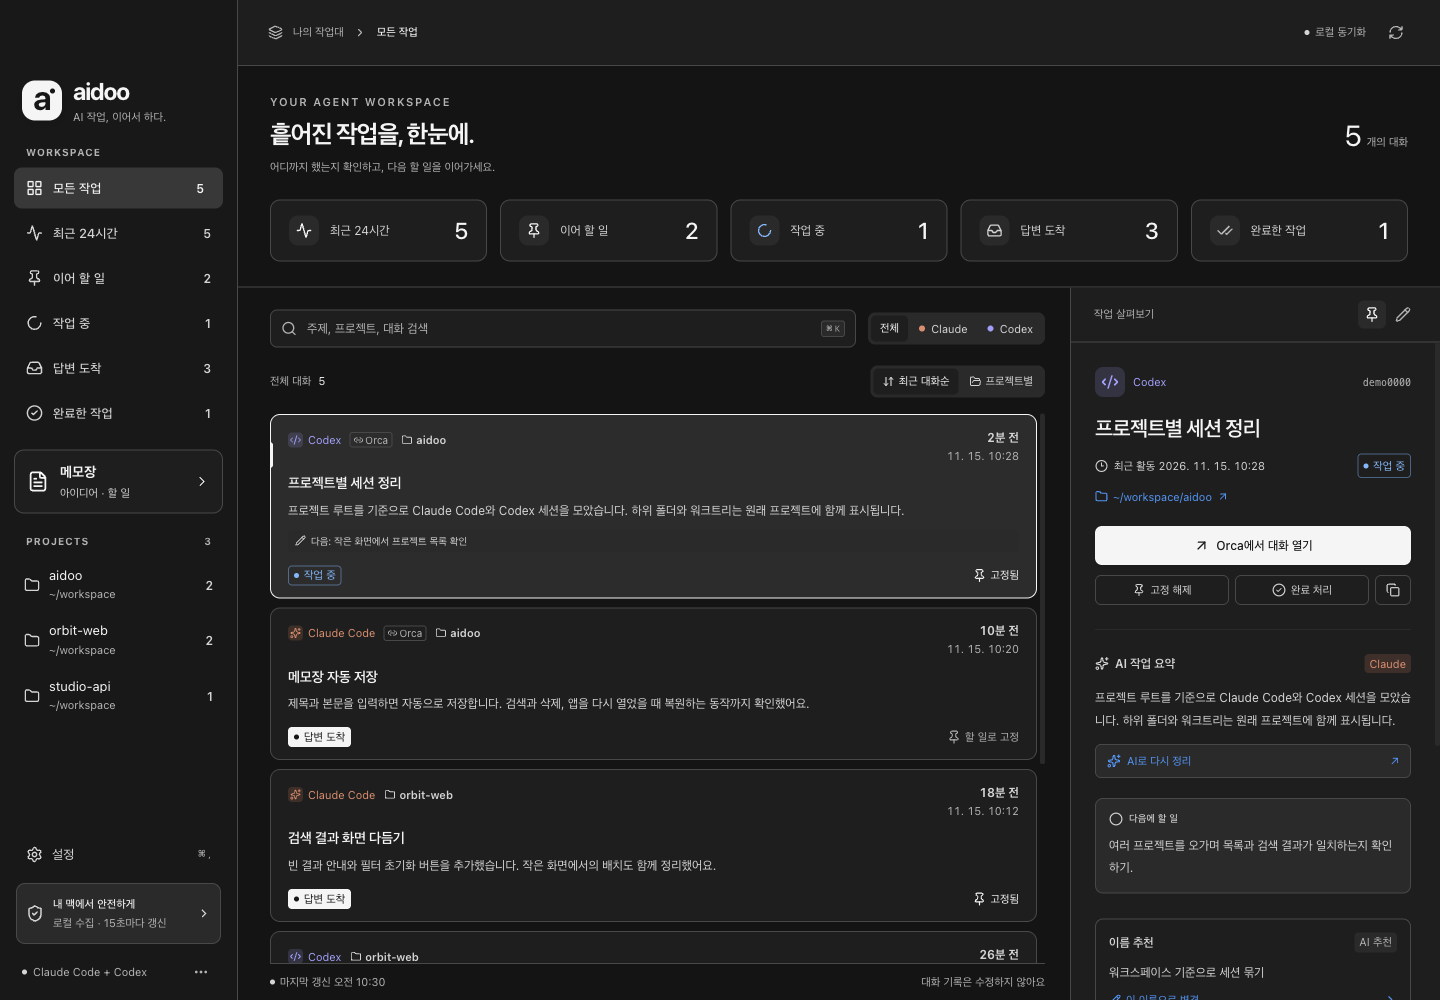
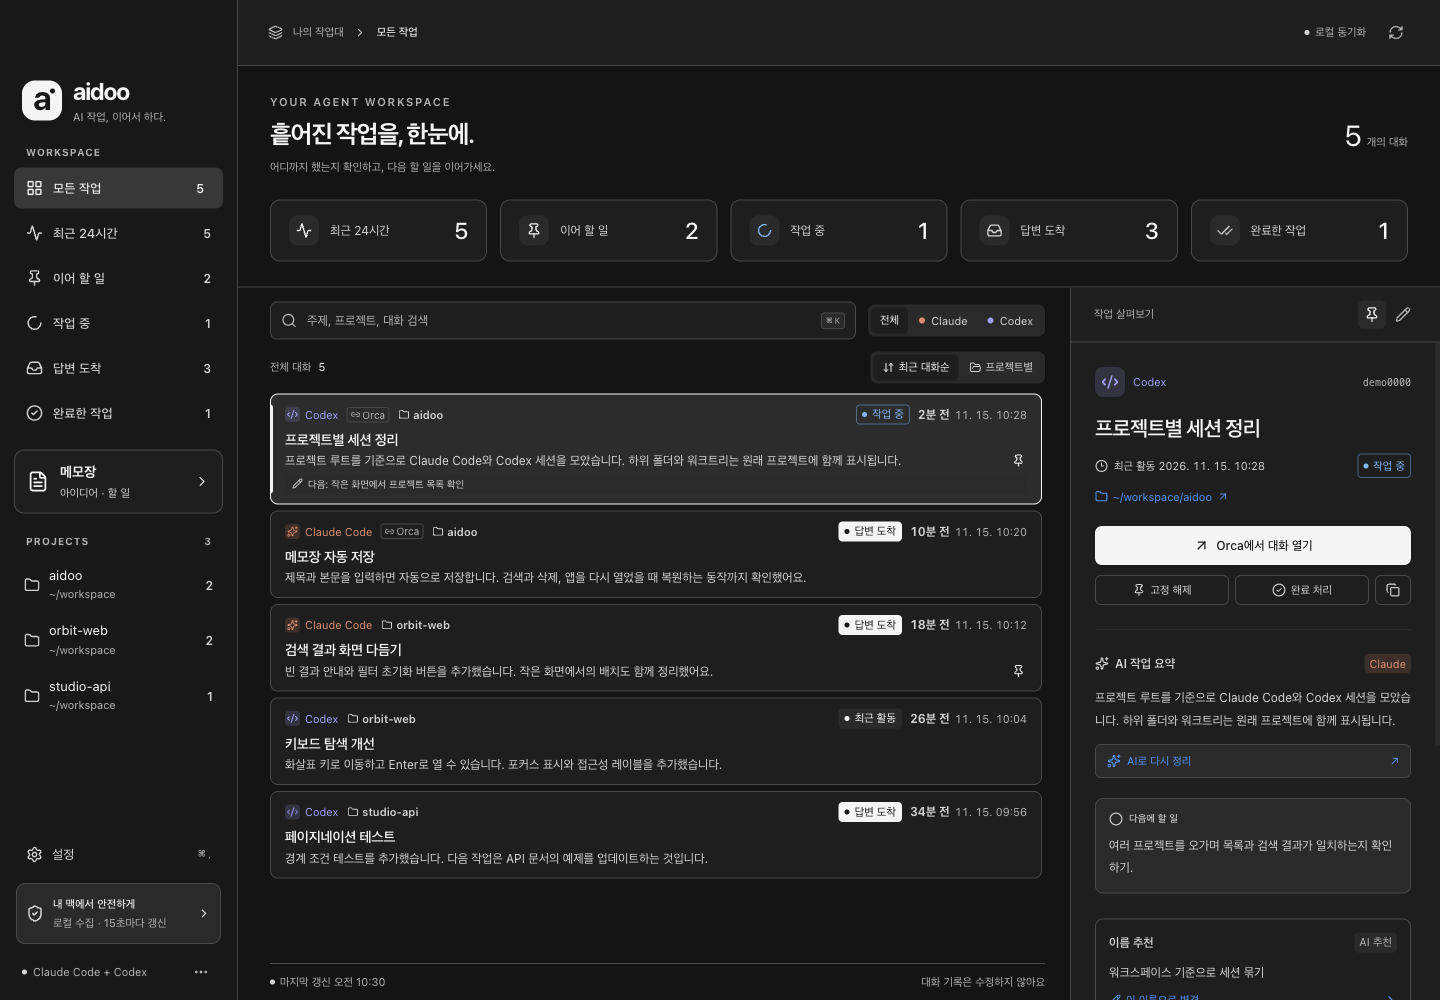
Fit more sessions on screen with compact cards
The detail pane already shows the full summary, so each card keeps one line of it. The status chip moves next to the time, the pin becomes an icon beside the summary, and card spacing shrinks, taking a card from about 155px to 87px.

Claude-Session: https://claude.ai/code/session_01UC48AHiTr7uA9vwWLQU8uy

diff --git a/src/renderer/src/main.tsx b/src/renderer/src/main.tsx
@@ -238,12 +238,11 @@ function App() {
           {(grouped ? [...groups] : [['', visible] as const]).map(([dir, items]) => <div className="session-group" key={dir || 'recent'}>
             {grouped && <div className="group-heading" title={dir}><FolderOpen size={15}/><strong>{folderName(dir)}</strong><span>{shortPath(dir)}</span><b>{items.length}</b></div>}
             {items.map(s => { const st = state[s.id] || {}; return <article key={s.id} className={`session-card ${active?.id === s.id ? 'selected' : ''} ${st.done ? 'done' : ''}`} onClick={() => setSelected(s.id)} tabIndex={0} onKeyDown={e => { if (e.key === 'Enter') setSelected(s.id) }}>
-              <div className="card-top"><span className="agent-name" data-agent={s.agent}><AgentMark agent={s.agent} small/>{s.agent === 'claude' ? 'Claude Code' : 'Codex'}{s.inOrca && <span className="orca-label"><Link2 size={10}/> Orca</span>}{!directory && !grouped && <span className="card-project" title={shortPath(s.projectPath)}><Folder size={11}/>{folderName(s.projectPath)}</span>}</span><time className="card-time" dateTime={new Date(s.updatedAt * 1000).toISOString()} title={exactTime(s.updatedAt)}><strong>{relativeTime(s.updatedAt)}</strong><span>{shortTime(s.updatedAt)}</span></time></div>
+              <div className="card-top"><span className="agent-name" data-agent={s.agent}><AgentMark agent={s.agent} small/>{s.agent === 'claude' ? 'Claude Code' : 'Codex'}{s.inOrca && <span className="orca-label"><Link2 size={10}/> Orca</span>}{!directory && !grouped && <span className="card-project" title={shortPath(s.projectPath)}><Folder size={11}/>{folderName(s.projectPath)}</span>}</span><span className="card-meta"><StatusChip status={s.status} done={st.done}/><time className="card-time" dateTime={new Date(s.updatedAt * 1000).toISOString()} title={exactTime(s.updatedAt)}><strong>{relativeTime(s.updatedAt)}</strong><span>{shortTime(s.updatedAt)}</span></time></span></div>
               <h3>{st.done && <CircleCheck size={15}/>} {titleOf(s)}</h3>
-              <p className="card-summary">{st.ai?.summary || s.latestReply || s.latestRequest}</p>
+              <div className="card-bottom"><p className="card-summary">{st.ai?.summary || s.latestReply || s.latestRequest}</p>
+                <button className={`pin-button ${st.pinned ? 'pinned' : ''}`} title={st.pinned ? '이어 할 일에서 해제' : '이어 할 일로 고정'} aria-label={st.pinned ? '이어 할 일에서 해제' : '이어 할 일로 고정'} aria-pressed={!!st.pinned} onClick={e => { e.stopPropagation(); update(s.id, { pinned: !st.pinned }) }}><Pin size={13}/></button></div>
               {st.note && <p className="card-note"><Pencil size={11}/>{st.note}</p>}
-              <div className="card-bottom"><StatusChip status={s.status} done={st.done}/>
-                <button className={`pin-button ${st.pinned ? 'pinned' : ''}`} title={st.pinned ? '이어 할 일에서 해제' : '이어 할 일로 고정'} onClick={e => { e.stopPropagation(); update(s.id, { pinned: !st.pinned }) }}><Pin size={14}/>{st.pinned ? '고정됨' : '할 일로 고정'}</button></div>
             </article> })}
           </div>)}
         </div>

diff --git a/src/renderer/src/theme.css b/src/renderer/src/theme.css
@@ -221,3 +221,19 @@
 .stats-strip>button {min-width: 0}
 .stats-strip>button>span:not(.stat-icon) {min-width: 0;white-space: nowrap;overflow: hidden;text-overflow: ellipsis}
 @media (max-width: 1150px) {.stats-strip .stat-icon {display: none}}
+.list-toolbar {padding: 14px 0 12px}
+.list-caption {margin-bottom: 10px}
+.session-group+.session-group {margin-top: 16px}
+.group-heading {margin-bottom: 8px}
+.session-card {padding: 10px 14px;margin-bottom: 6px;border-radius: 8px}
+.session-card.selected:before {top: 10px;bottom: 10px;height: auto}
+.card-top {align-items: center;gap: 8px}
+.agent-name {padding-top: 0;min-width: 0}
+.card-meta {display: flex;align-items: center;gap: 8px;flex-shrink: 0}
+.card-time {flex-direction: row;align-items: baseline;gap: 5px}
+.session-card h3 {margin: 5px 0 1px;line-height: 1.45}
+.card-bottom {margin-top: 0;gap: 8px}
+.card-summary {flex: 1;min-width: 0;display: block;white-space: nowrap;overflow: hidden;text-overflow: ellipsis;line-height: 1.6}
+.pin-button {padding: 2px;border-radius: 4px;flex-shrink: 0;opacity: 0;transition: opacity .15s}
+.session-card:hover .pin-button,.session-card.selected .pin-button,.pin-button:focus-visible,.pin-button.pinned {opacity: 1}
+.card-note {margin-top: 5px;padding: 3px 7px}
